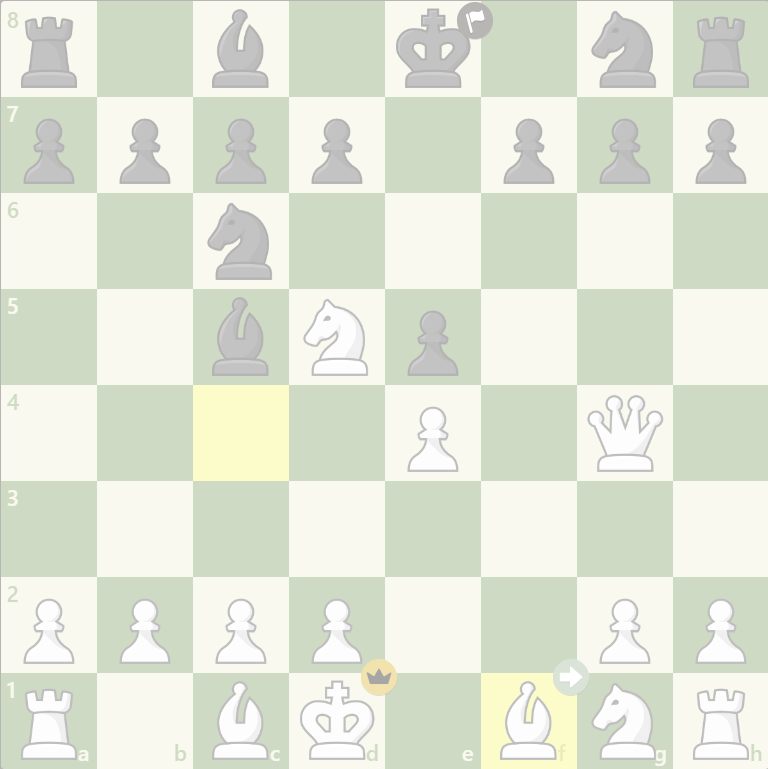
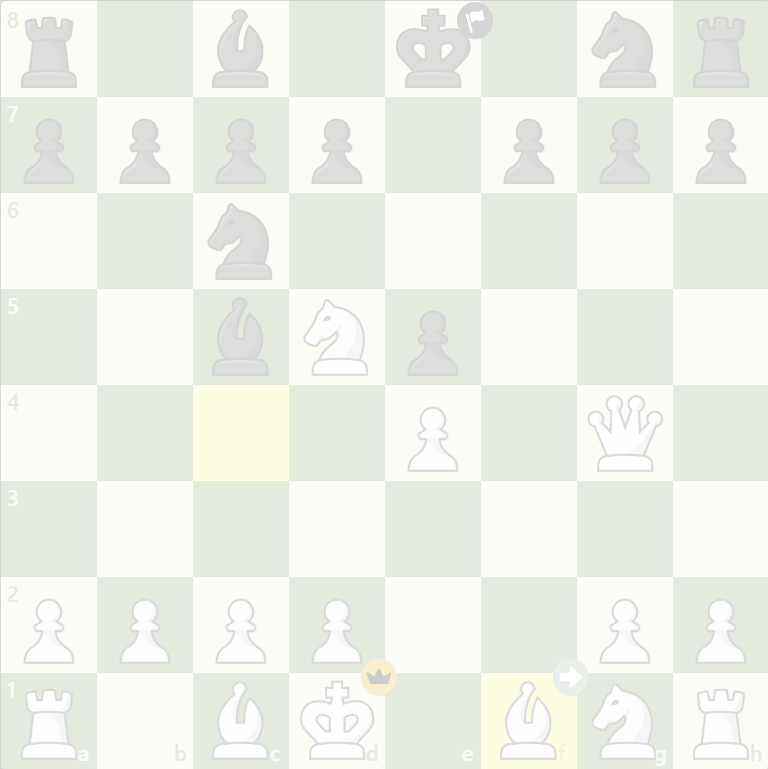
Title added

diff --git a/src/title.py b/src/title.py
@@ -15,3 +15,9 @@ class Title:
         surface.blit(self.bg_surf, (0,0))
 
         #TODO: Title --> self.config.title_font.render(<>)
+        title_message = self.config.title_font.render("Chess Trainer", False, (0, 0, 0))
+        title_message_rect = title_message.get_rect(center = ((WIDTH // 2), (HEIGHT // 8)))
+        surface.blit(title_message, title_message_rect)
+        # game_name = test_font.render("Pixel Runner", False, (111, 196, 169))
+        # game_name_rect = game_name.get_rect(center = (400, 80))
+        # screen.blit(game_message, game_message_rect)

diff --git a/src/config.py b/src/config.py
@@ -13,7 +13,7 @@ class Config:
         self.idx = 1
         self.theme = self.themes[self.idx]
         self.font = pygame.font.SysFont('monospace', 18, bold=True)
-        self.title_font = pygame.font.SysFont('monospace', 18, bold=True)
+        self.title_font = pygame.font.SysFont('impact', 100)
         self.move_sound = Sound(os.path.join('assets/sounds/move.mp3'))
         self.capture_sound = Sound(os.path.join('assets/sounds/capture.mp3'))
 
